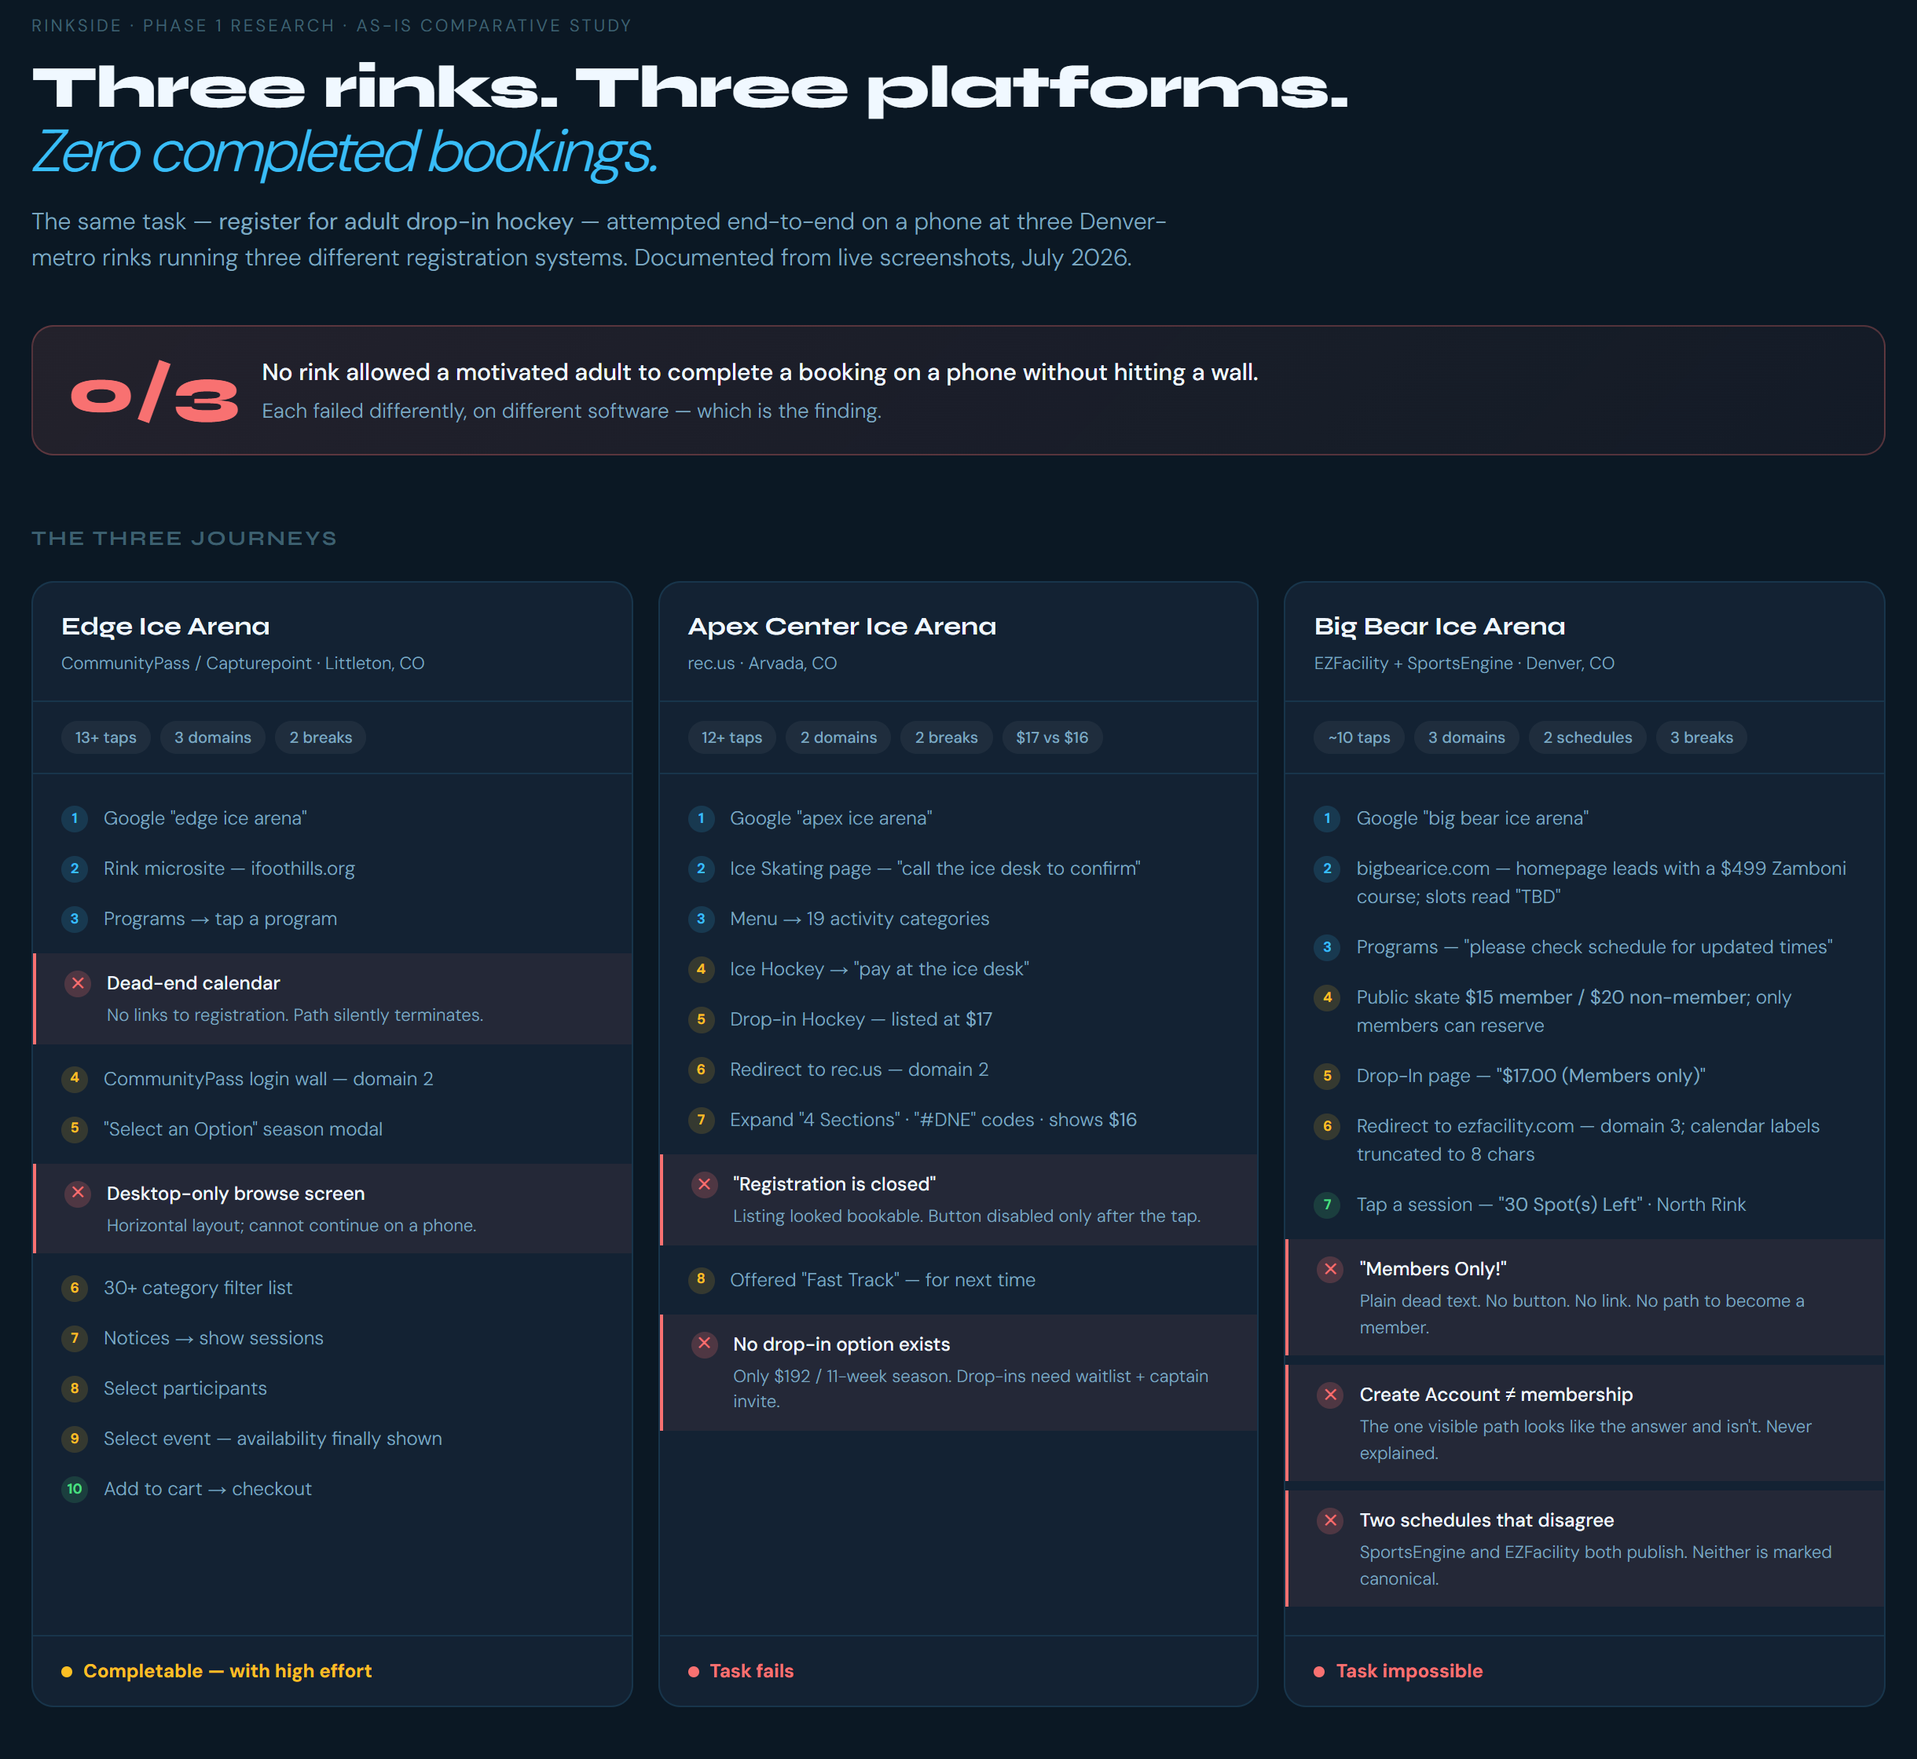
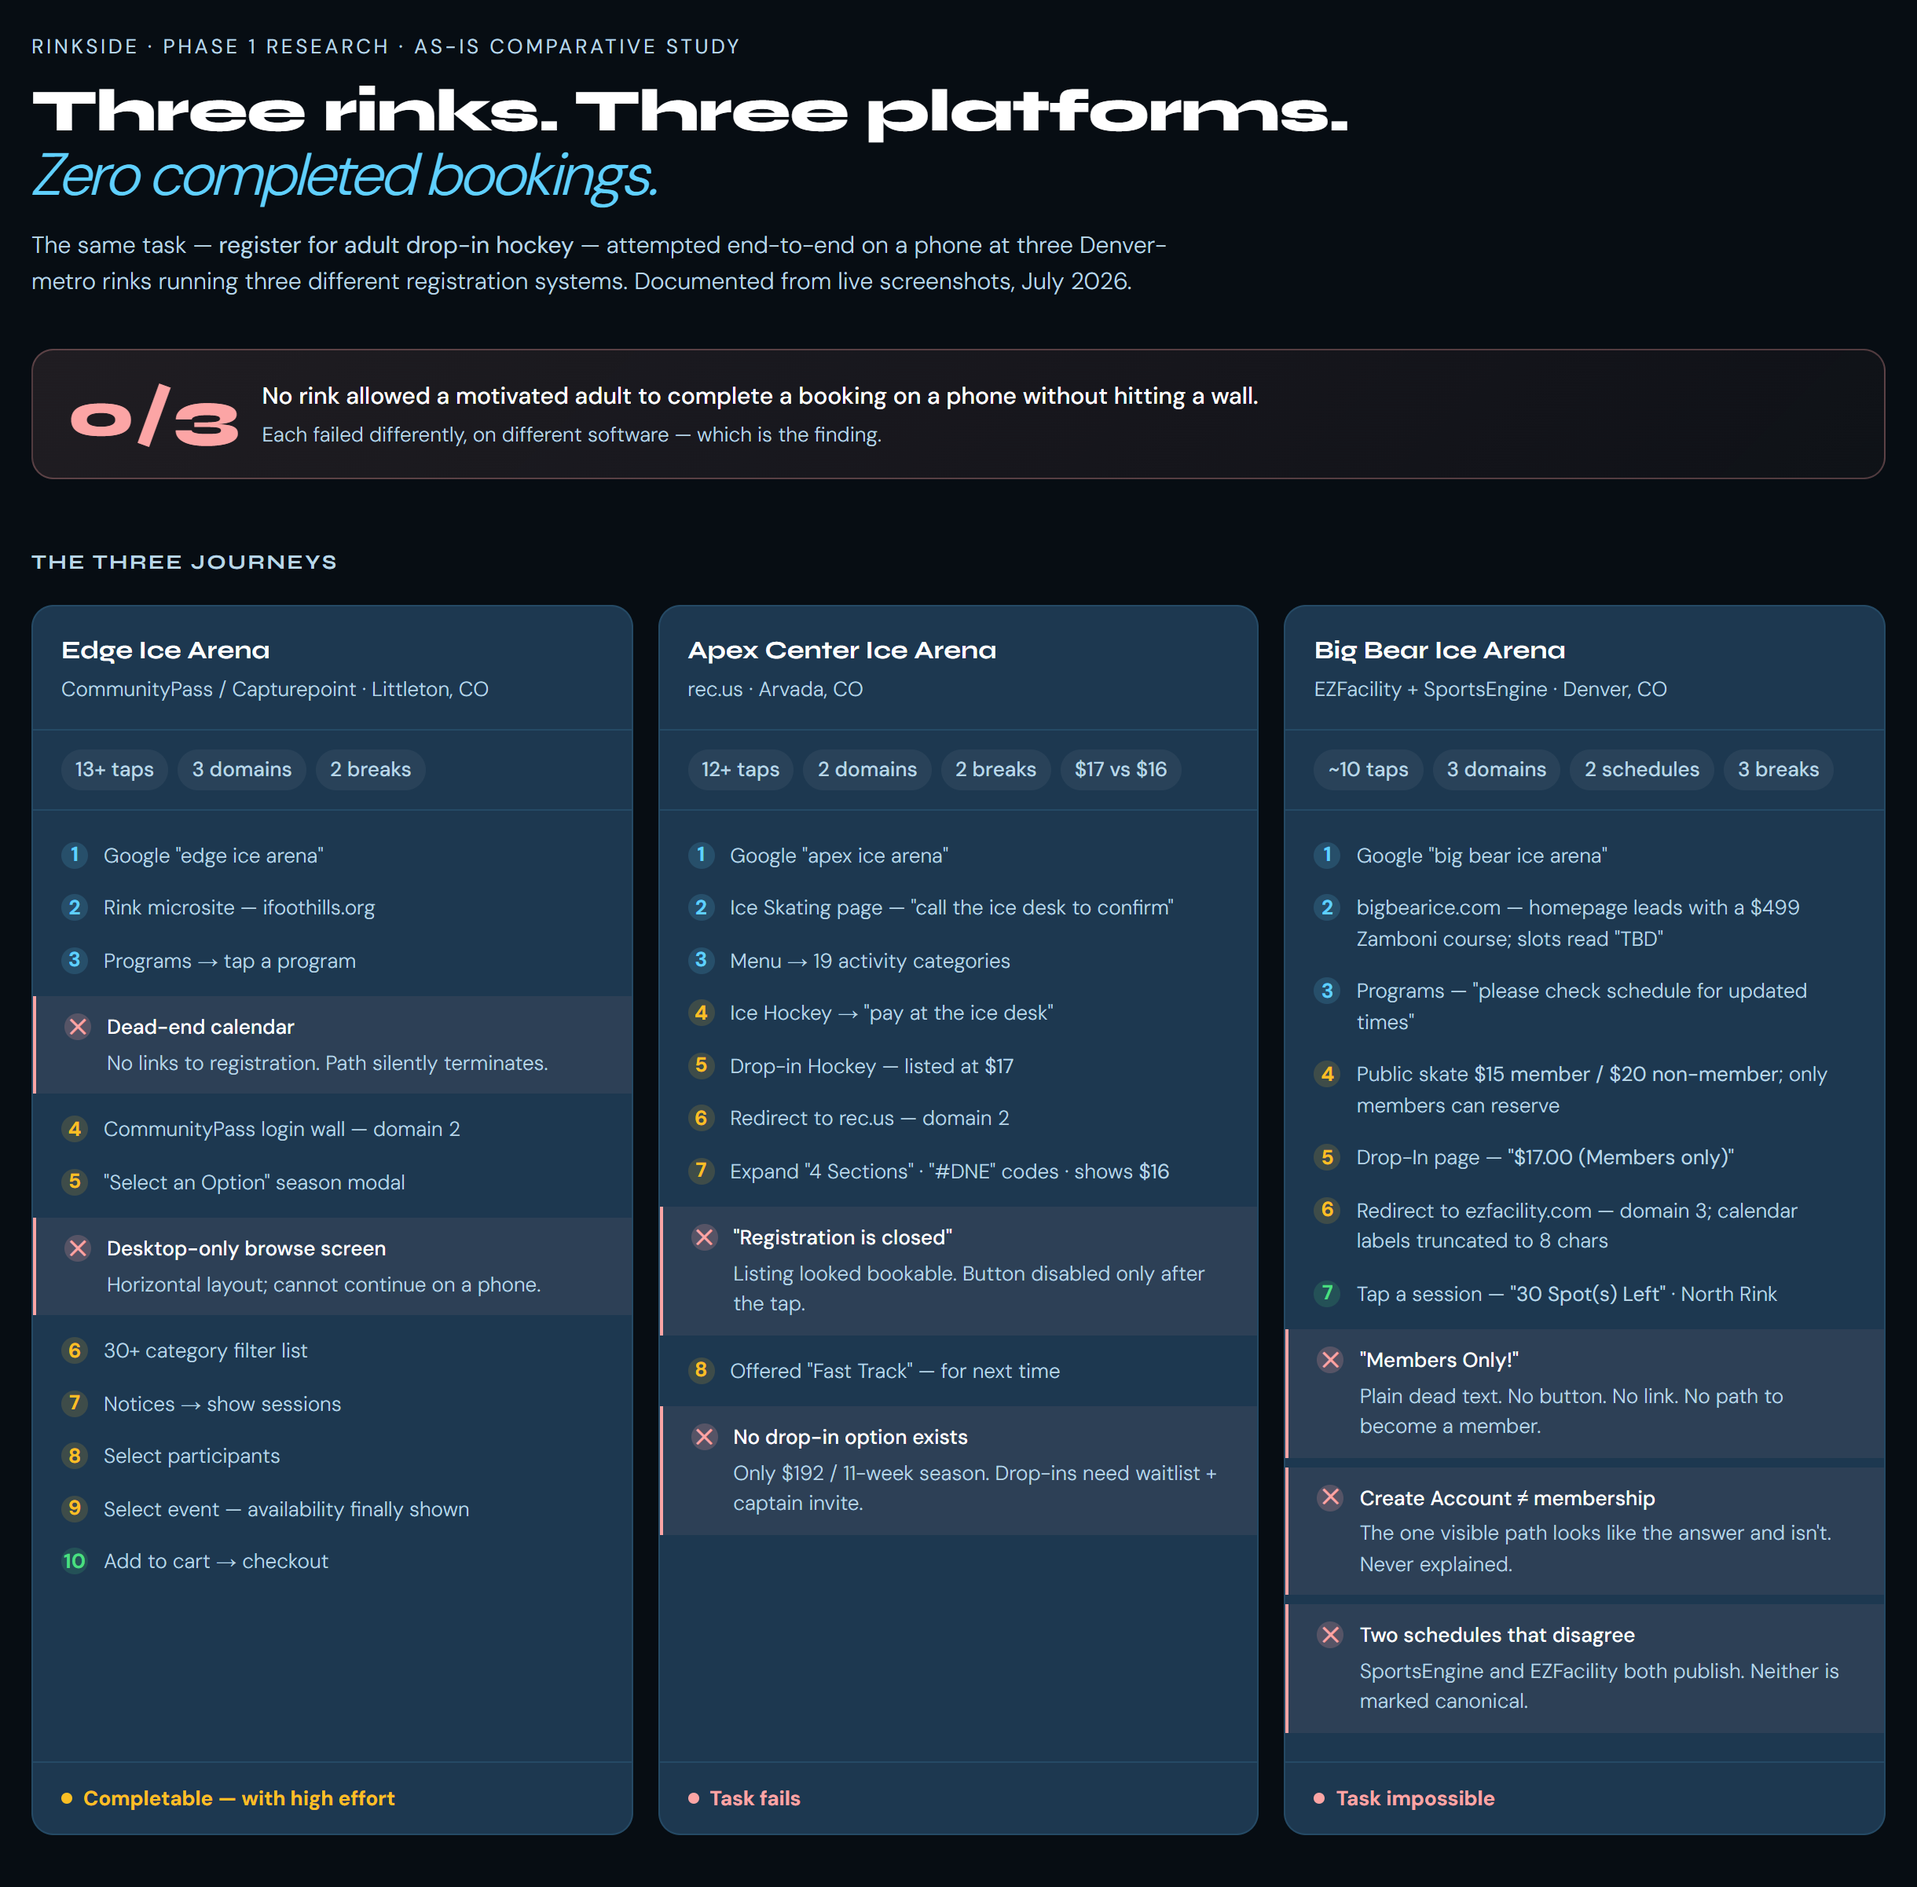
Rinkside: diagrams in the alpha's colors and WCAG AA; flows, feature matrix and palette as real text; BenchApp is replaced, not joined
- Re-render journey maps, sitemap, as-is study, concept sketches, audit summary and components in the alpha's Dark palette (theme.ts); every text color 4.5:1+, nothing under 13px
- FigJam flows, feature matrix and alpha color palette are now HTML instead of images
- "Incumbent" reworded in the diagrams; "Tier 2 typical" column dropped from the matrix

diff --git a/src/_data/rinkside.js b/src/_data/rinkside.js
@@ -1,0 +1,134 @@
+// Rinkside B2C case study: content drawn as real text instead of pictures.
+// Flows: copied from Aaron's FigJam boards (Oct 2026). Matrix: competitive audit, July 2026.
+// Themes: the alpha's palette, from mobile/src/theme.ts.
+
+// A step is a string. Other nodes:
+//   { start: "…" } / { end: "…" }  rounded start and end points
+//   { q: "…?", branches: [{ label, steps: [...] }] }  a decision
+//   { back: "…" }  loops back to an earlier step
+const flows = {
+  discover: [
+    { start: "Open Rinkside" },
+    "Home: hero and previews",
+    { q: "Browse or search?", branches: [
+      { label: "Search", steps: ["Search results"] },
+      { label: "Browse", steps: ["Explore: rinks and activities", { q: "Sessions available nearby?", branches: [
+        { label: "Yes", steps: [] },
+        { label: "No", steps: [{ end: "Empty state: no sessions nearby" }] },
+      ] }] },
+    ] },
+    "Session list with live spot counts",
+    "Session detail",
+    "Proceed to checkout",
+    { end: "Booking confirmed" },
+  ],
+  team: [
+    { start: "Rink publishes its schedule" },
+    "The game fills in under My Teams",
+    "Push notification: new game scheduled",
+    "Player opens My Teams",
+    "Sees the game: date, time, venue",
+    { q: "In or out?", branches: [
+      { label: "In", steps: ["Marked in, live count updates"] },
+      { label: "Out", steps: [{ end: "Marked out, live count updates" }] },
+      { label: "No answer by the deadline", steps: ["Automated nudge", { back: "In or out?" }] },
+    ] },
+    "Game day",
+    "QR check-in at the rink",
+    { end: "On the ice" },
+  ],
+  checkout: [
+    { start: "Enter from session detail" },
+    "Pick who's going: you or a dependent",
+    { q: "Price tier?", branches: [
+      { label: "Under the threshold", steps: ["Flat $0.99 fee"] },
+      { label: "Over the threshold", steps: ["Capped percentage fee"] },
+    ] },
+    "Show the all-in total before paying",
+    { q: "Saved payment method?", branches: [
+      { label: "Yes", steps: [] },
+      { label: "No", steps: ["Add one through Stripe"] },
+    ] },
+    "Pay",
+    { q: "Payment result?", branches: [
+      { label: "Success", steps: [{ end: "Confirmation and QR credential" }] },
+      { label: "Failed", steps: ["Error: payment failed", { back: "Pay" }] },
+      { label: "Session filled during checkout", steps: ["Error: session filled", { end: "Waitlist offer" }] },
+    ] },
+  ],
+  cancelV1: [
+    { start: "Tap Cancel booking" },
+    { q: "Is anyone on the waitlist right now?", branches: [
+      { label: "Yes", steps: ["Show: you'll be refunded, someone can take your spot"] },
+      { label: "No", steps: ["Show: you won't be refunded, the spot may go unfilled"] },
+    ] },
+    { q: "Confirm the cancellation?", branches: [
+      { label: "No", steps: [{ end: "Booking kept" }] },
+      { label: "Yes, waitlist", steps: ["Refund issued", "Next person on the waitlist is promoted", "They're charged and their spot is confirmed", { end: "Cancellation complete" }] },
+      { label: "Yes, no waitlist", steps: ["Booking canceled, no refund", "Spot opens, nobody to fill it", { end: "Cancellation complete" }] },
+    ] },
+  ],
+  cancelV2: [
+    { start: "Tap Cancel booking" },
+    { q: "Is the session full right now?", branches: [
+      { label: "Yes, with a waitlist", steps: ["Show: you'll be refunded now, N people waiting"] },
+      { label: "No", steps: ["Show: not refunded now, but refunded if this fills before it starts"] },
+    ] },
+    { q: "Confirm the cancellation?", branches: [
+      { label: "No", steps: [{ end: "Booking kept" }] },
+      { label: "Yes, full", steps: ["Refund issued right away", "Next person on the waitlist is promoted", "They're charged and their spot is confirmed", { end: "Cancellation complete" }] },
+      { label: "Yes, not full", steps: ["Booking canceled, spot opens, refund pending", { q: "Does it fill before it starts?", branches: [
+        { label: "Yes", steps: ["Refund paid", { end: "Cancellation complete" }] },
+        { label: "No", steps: ["Pending closes: no refund", { end: "Cancellation complete" }] },
+      ] }] },
+    ] },
+  ],
+};
+
+// y = works, p = partly (works, but compromised), n = missing, na = doesn't apply
+const matrix = {
+  columns: ["CommunityPass", "rec.us", "EZFacility", "SportsEngine", "BenchApp", "Rinkside"],
+  rows: [
+    ["Shows more than one rink", "n n n n n y", true],
+    ["Availability before you log in", "n n p n na y"],
+    ["Live spot count in the list", "n n p n na y"],
+    ["Only shows sessions you can book", "n n n n na y"],
+    ["Single session, no membership", "p n n n na y"],
+    ["Built for phones, start to finish", "n y p p y y"],
+    ["One official schedule", "y y p p n y"],
+    ["One all-in price", "y p p na na y"],
+    ["Push alert when something changes", "n n n p p y"],
+    ["Waitlist that moves people up", "n p n n p y"],
+    ["Team roster and attendance", "n n n y y y"],
+    ["Team schedule filled in from the rink", "n n n n n y", true],
+    ["QR or digital check-in", "n n p n n y"],
+    ["Dashboard for rink staff", "y y y y n y"],
+  ].map(([label, cells, key]) => ({ label, cells: cells.split(" "), key: !!key })),
+};
+
+// WCAG contrast ratio between two hex colors.
+function lum(hex) {
+  const c = [1, 3, 5].map((i) => parseInt(hex.slice(i, i + 2), 16) / 255)
+    .map((v) => (v <= 0.03928 ? v / 12.92 : ((v + 0.055) / 1.055) ** 2.4));
+  return 0.2126 * c[0] + 0.7152 * c[1] + 0.0722 * c[2];
+}
+const ratio = (a, b) => {
+  const [x, y] = [lum(a), lum(b)].sort((m, n) => n - m);
+  return (Math.floor(((x + 0.05) / (y + 0.05)) * 10) / 10).toFixed(1);
+};
+
+const palettes = {
+  Dark: { bg: "#070d13", surface: "#26445e", accent: "#5fd0ff", text: "#ffffff", textMuted: "#b9d6e6", green: "#4ade80", amber: "#fbbf24", red: "#fca5a5" },
+  Light: { bg: "#e7edf3", surface: "#ffffff", accent: "#075985", text: "#0b1824", textMuted: "#3d5a6c", green: "#166534", amber: "#92400e", red: "#a31b1b" },
+  Warm: { bg: "#14120f", surface: "#332b21", accent: "#fb923c", text: "#faf6f0", textMuted: "#d1b190", green: "#4ade80", amber: "#fbbf24", red: "#f87171" },
+};
+const textRoles = [["text", "Text"], ["textMuted", "Muted text"], ["accent", "Accent"], ["green", "Green"], ["amber", "Amber"], ["red", "Red"]];
+const themes = Object.entries(palettes).map(([name, p]) => ({
+  name,
+  bg: p.bg,
+  surface: p.surface,
+  text: p.text,
+  swatches: textRoles.map(([key, label]) => ({ label, hex: p[key], ratio: ratio(p[key], p.surface) })),
+}));
+
+export default { flows, matrix, themes };

diff --git a/src/css/style.css b/src/css/style.css
@@ -727,3 +727,96 @@ details.more[open] > summary { margin-bottom: 0.5rem; }
 @media (min-width: 64rem) { .cs-layout--toc { grid-template-columns: 13rem minmax(0, 1fr); } }
 
 .figure--phone img { max-width: min(100%, 20rem); }
+
+
+/* ---- Rinkside diagrams drawn as text, in the alpha's Dark theme ----------
+   Colors from the app's mobile/src/theme.ts. Ratios are against --rs-card. */
+.flow, .matrix-wrap, .palette {
+  --rs-bg: #070d13;
+  --rs-panel: #1d3850;
+  --rs-card: #26445e;
+  --rs-line: rgba(95, 208, 255, 0.4);
+  --rs-accent: #5fd0ff;     /* 5.8:1 */
+  --rs-text: #ffffff;       /* 10.1:1 */
+  --rs-muted: #b9d6e6;      /* 6.7:1; 12.9:1 on --rs-bg */
+  --rs-amber: #fbbf24;      /* 6.1:1 */
+}
+
+.flow { margin: 2rem 0; padding: 1rem; background: var(--rs-bg); border: 1px solid var(--rs-line); border-radius: 0.75rem; }
+.flow figcaption { margin-top: 1rem; color: var(--rs-muted); }
+.flow figcaption strong { color: var(--rs-text); }
+.flow__steps { list-style: none; margin: 0; padding: 0; display: flex; flex-direction: column; align-items: center; gap: 1.5rem; }
+/* The arrow between one step and the next */
+.flow__steps > li + li { position: relative; }
+.flow__steps > li + li::before {
+  content: ""; position: absolute; left: 50%; top: -1.5rem; height: 1.5rem; width: 0;
+  border-left: 2px solid var(--rs-muted); transform: translateX(-1px);
+}
+.flow__steps > li + li::after {
+  content: ""; position: absolute; left: 50%; top: -0.45rem; width: 0; height: 0; transform: translateX(-5px);
+  border-left: 5px solid transparent; border-right: 5px solid transparent; border-top: 6px solid var(--rs-muted);
+}
+.flow__node {
+  width: min(100%, 18rem); padding: 0.6rem 0.9rem; text-align: center;
+  background: var(--rs-card); color: var(--rs-text); border: 1px solid var(--rs-line); border-radius: 0.5rem;
+  font-size: 0.9375rem; line-height: 1.4;
+}
+.flow__node--start, .flow__node--end { border-radius: 999px; border: 2px solid var(--rs-accent); font-weight: 600; }
+.flow__decision { width: 100%; display: flex; flex-direction: column; align-items: center; }
+.flow__q {
+  margin: 0; display: flex; align-items: center; gap: 0.5rem; padding: 0.55rem 0.9rem;
+  background: var(--rs-panel); color: var(--rs-text); border: 2px solid var(--rs-amber); border-radius: 0.5rem; font-weight: 600; font-size: 0.9375rem; text-align: center;
+}
+.flow__diamond { flex: none; width: 0.6rem; height: 0.6rem; background: var(--rs-amber); transform: rotate(45deg); }
+.flow__branches {
+  list-style: none; margin: 1rem 0 0; padding: 0; width: 100%;
+  display: grid; gap: 1rem; grid-template-columns: repeat(auto-fit, minmax(min(100%, 11.5rem), 1fr));
+}
+.flow__branch {
+  display: flex; flex-direction: column; align-items: center; gap: 0.75rem; min-width: 0;
+  padding: 0.75rem; border: 1px dashed var(--rs-line); border-radius: 0.5rem;
+}
+.flow__branch .flow__steps { width: 100%; }
+.flow__label {
+  margin: 0; padding: 0.15rem 0.6rem; border-radius: 999px; background: var(--rs-panel);
+  color: var(--rs-accent); font-weight: 700; font-size: 0.875rem; text-align: center;
+}
+.flow__note, .flow__back { margin: 0; color: var(--rs-muted); font-size: 0.875rem; text-align: center; }
+.flow__back { font-style: italic; }
+
+/* Feature matrix */
+.matrix-wrap { position: relative; margin: 2rem 0 0.5rem; overflow-x: auto; background: var(--rs-bg); border: 1px solid var(--rs-line); border-radius: 0.75rem; }
+.matrix-wrap:focus-visible { outline: 3px solid var(--accent-strong); outline-offset: 2px; }
+.matrix { min-width: 40rem; font-size: 0.875rem; }
+.matrix caption { text-align: left; padding: 0.75rem; color: var(--rs-muted); caption-side: top; }
+.matrix th, .matrix td { border-bottom: 1px solid rgba(95, 208, 255, 0.18); padding: 0.5rem 0.6rem; vertical-align: middle; }
+.matrix thead th { color: var(--rs-muted); text-transform: none; letter-spacing: 0; font-size: 0.8125rem; text-align: center; }
+.matrix thead th:first-child { text-align: left; }
+.matrix tbody th { color: var(--rs-text); font-weight: 400; text-transform: none; letter-spacing: 0; font-size: 0.875rem; }
+.matrix td { text-align: center; color: var(--rs-text); }
+.matrix .is-key th { font-weight: 700; }
+.matrix .is-key { background: rgba(95, 208, 255, 0.08); }
+.matrix .us { background: rgba(95, 208, 255, 0.12); }
+.matrix thead .us { color: var(--rs-accent); font-weight: 700; }
+.mx { display: inline-block; min-width: 1.5rem; font-weight: 700; }
+.mx--y { color: #4ade80; } /* 11.4:1 on --rs-bg */
+.mx--p { color: var(--rs-amber); }
+.mx--n { color: #fca5a5; } /* 10.5:1 on --rs-bg */
+.mx--na { color: var(--rs-muted); }
+.matrix-legend { margin: 0.5rem 0 2rem; color: var(--text-muted); font-size: 0.9375rem; }
+
+/* Theme palette */
+.palette { display: grid; gap: 1rem; margin: 1.5rem 0 2rem; grid-template-columns: repeat(auto-fit, minmax(min(100%, 14rem), 1fr)); }
+.palette__theme { margin: 0; padding: 1rem; border-radius: 0.75rem; border: 1px solid var(--line-strong); }
+.palette__name { margin: 0 0 0.75rem; font-weight: 700; font-size: 1rem; }
+.palette__card { border-radius: 0.5rem; padding: 0.75rem; }
+.palette__list { list-style: none; margin: 0; padding: 0; display: grid; gap: 0.4rem; }
+.palette__list li { display: flex; justify-content: space-between; gap: 0.75rem; font-size: 0.875rem; font-weight: 600; }
+.palette__list code { font-family: ui-monospace, Consolas, monospace; font-weight: 400; }
+
+@media (forced-colors: active) {
+  .flow__node, .flow__q, .flow__branch, .flow__label, .matrix-wrap, .palette__theme { border: 1px solid CanvasText; }
+  .flow__diamond { background: CanvasText; }
+  .flow__steps > li + li::before { border-color: CanvasText; }
+  .flow__steps > li + li::after { border-top-color: CanvasText; }
+}
